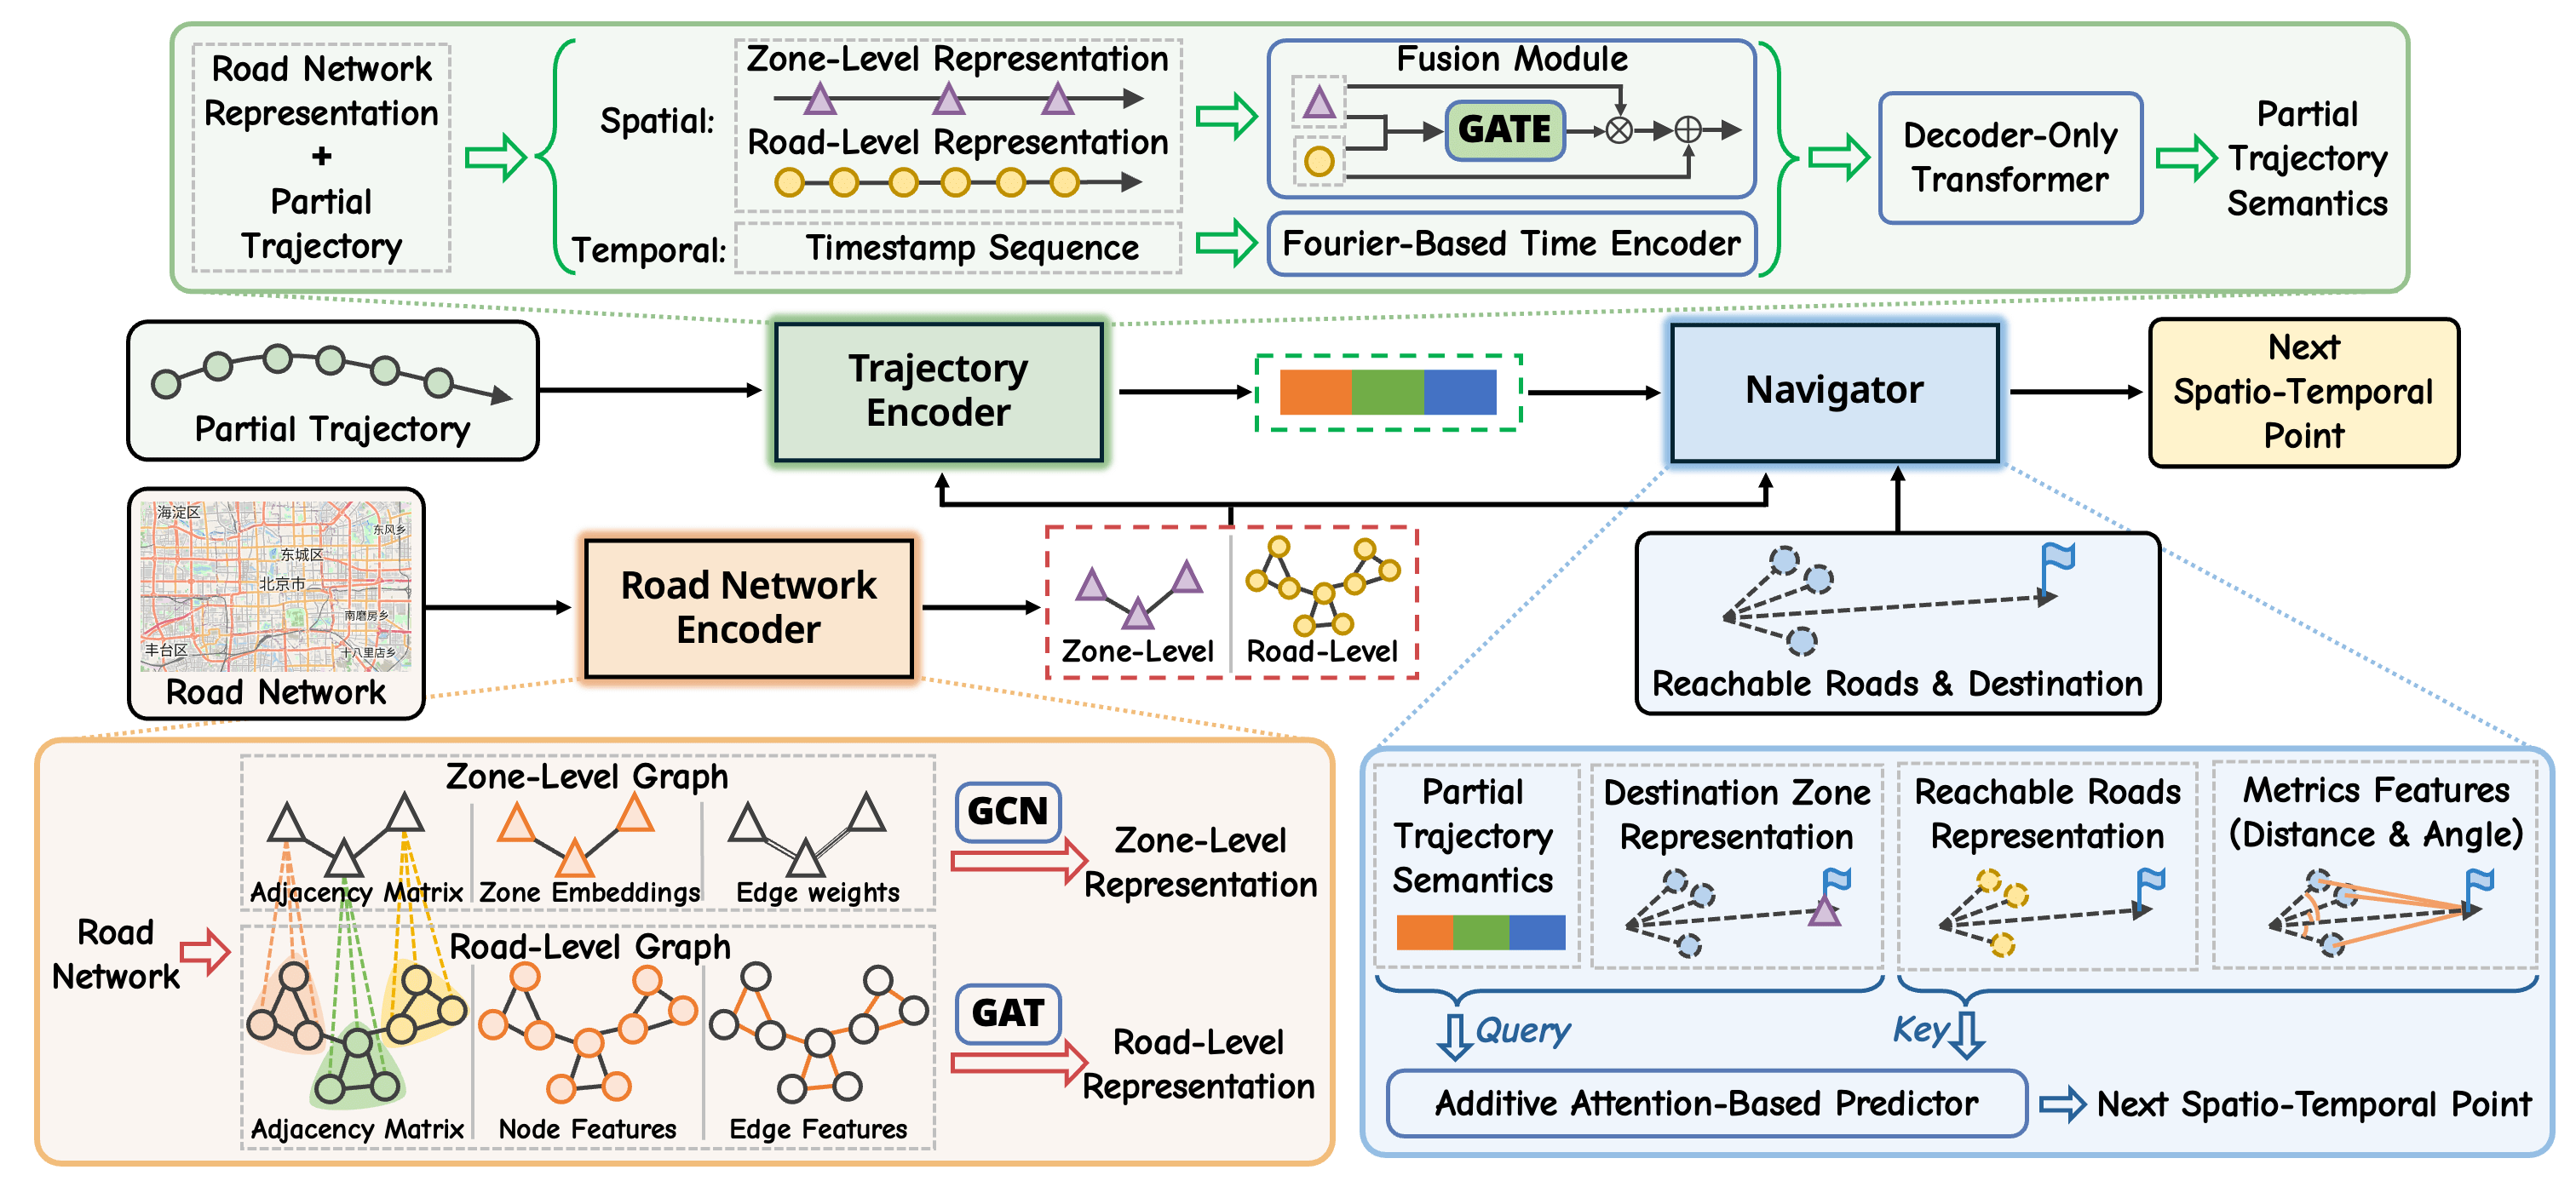
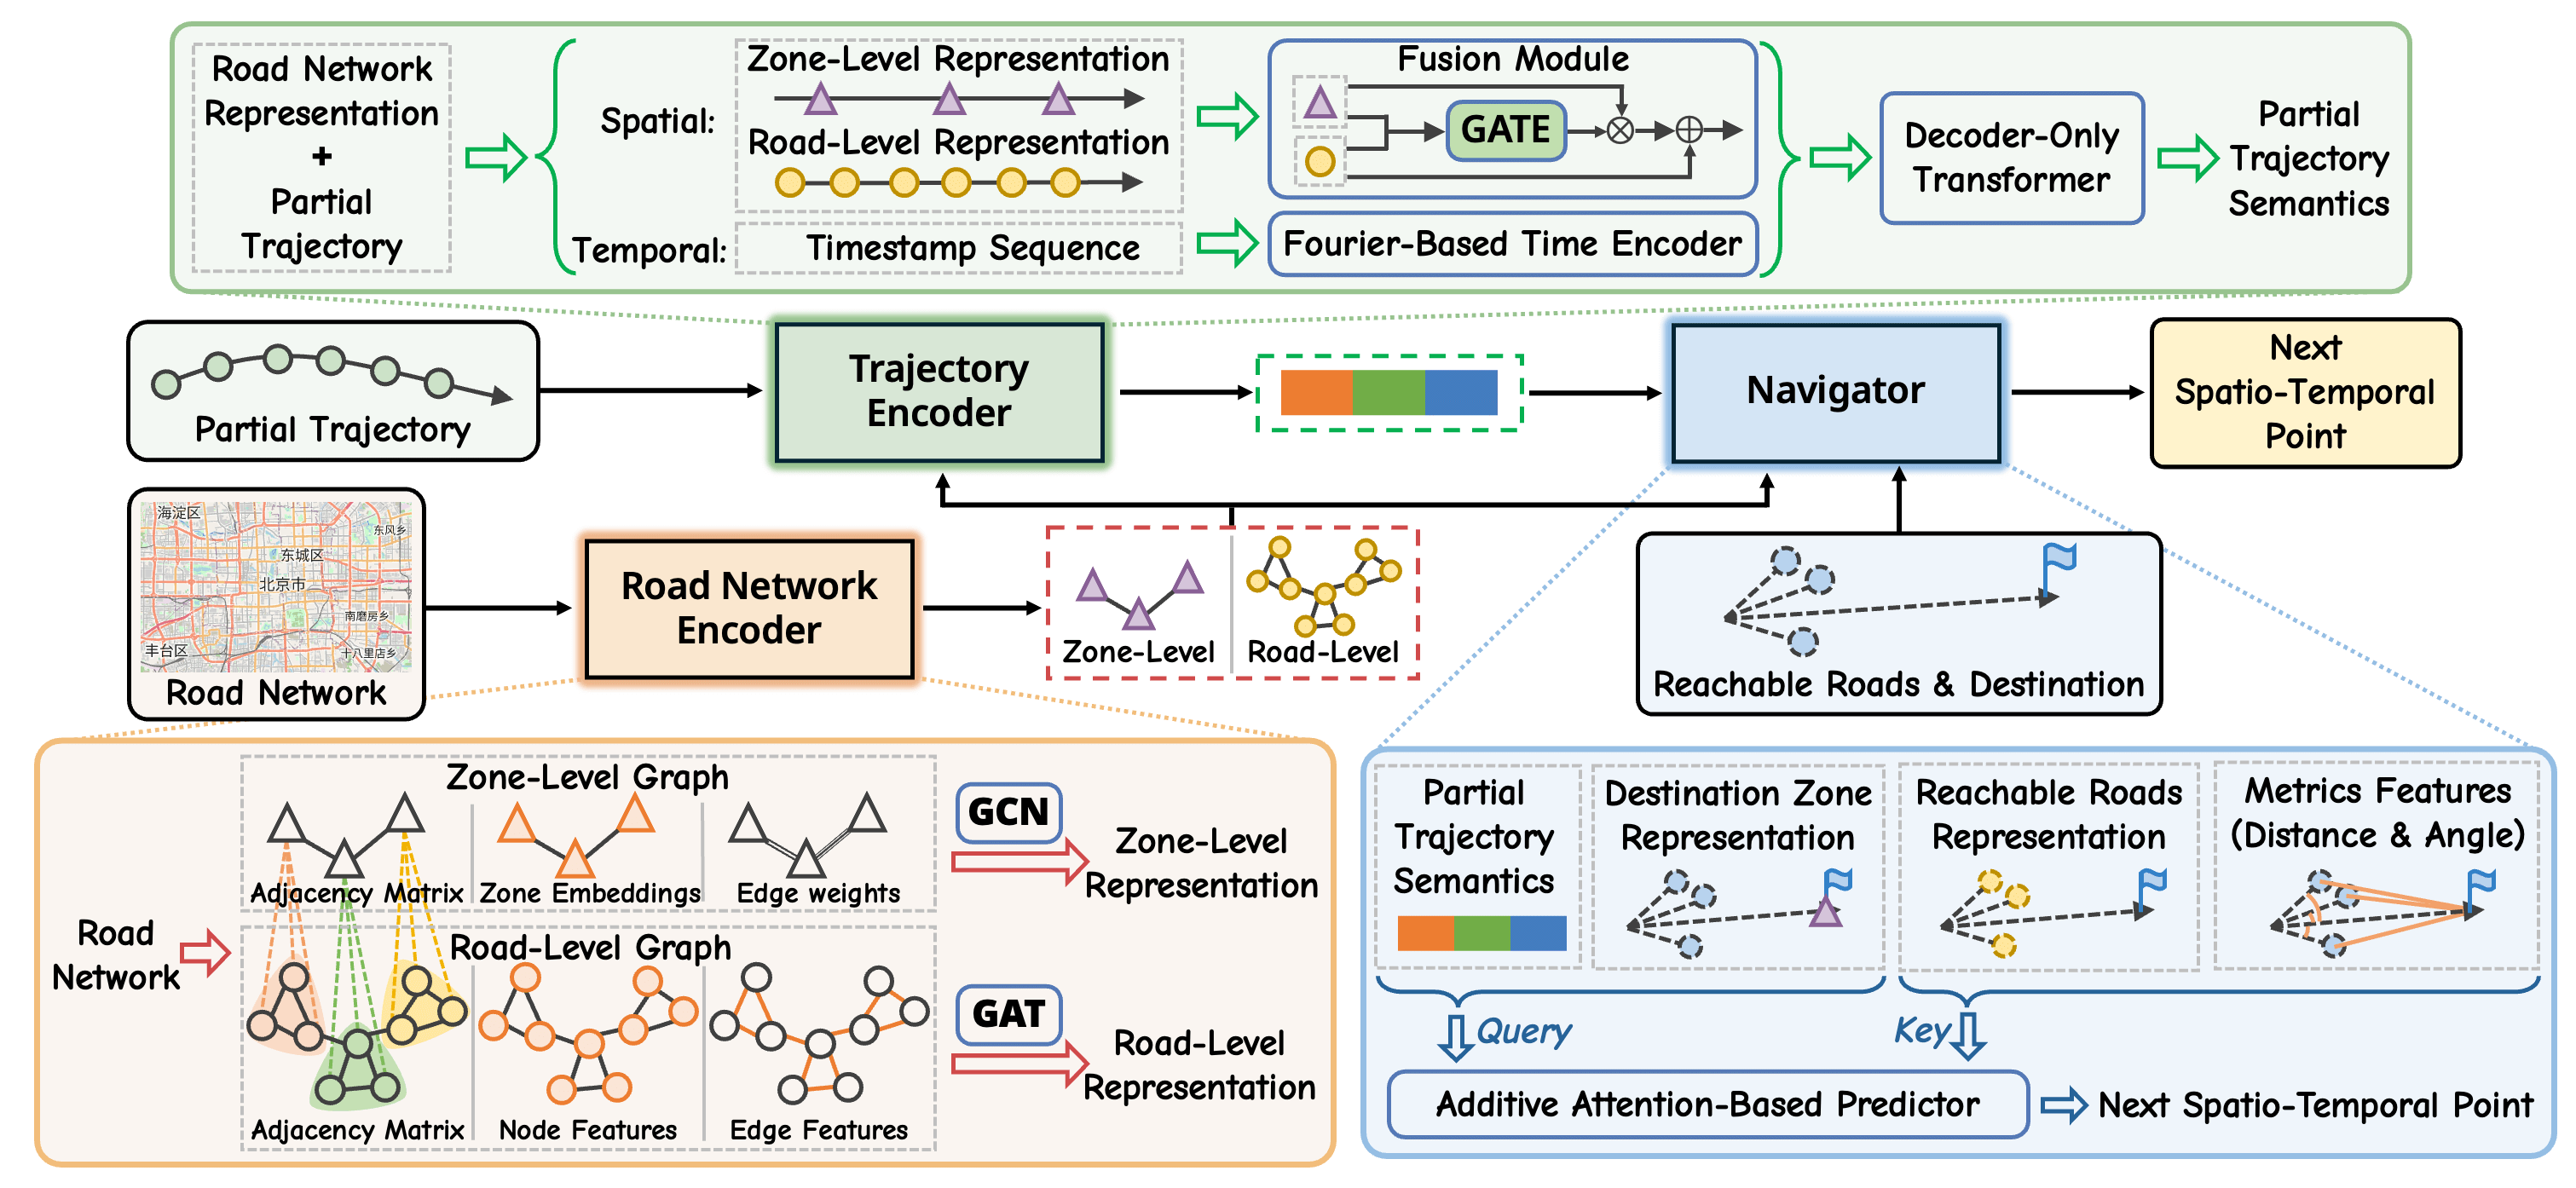
Update

diff --git a/src/index.html b/src/index.html
@@ -9,54 +9,52 @@
     <script type="module" src="./js/main.js"></script>
   </head>
   <body>
-    <section>
-      <div class="p-5 mb-4" style="background-color: #f5f5f7;">
-        <div class="container">
-          <div class="row">
-            <div class="col-12 text-center">
-              <h1 class="fs-4">Holistic Semantic Representation for Navigational Trajectory Generation</h1>
-              <p class="fs-5 text-muted">AAAI 2025</p>
-              <hr>
-              <p>
-                Ji Cao<sup>1</sup>,
-                Tongya Zheng<sup>2,3,*</sup>,
-                Qinghong Guo<sup>1</sup>,
-                Yu Wang<sup>1</sup>,
-                Junshu Dai<sup>1</sup>,
-                <br>
-                Shunyu Liu<sup>4</sup>,
-                Jie Yang<sup>1</sup>,
-                Jie Song<sup>1</sup>,
-                Mingli Song<sup>3,5</sup>
-              </p>
-              <p>
-                <sup>1</sup>Zhejiang University
-                <br>
-                <sup>2</sup>Big Graph Center, Hangzhou City University
-                <br>
-                <sup>3</sup>State Key Laboratory of Blockchain and Data Security, Zhejiang University
-                <br>
-                <sup>4</sup>Nanyang Technological Univerisity
-                <br>
-                <sup>5</sup>Hangzhou High-Tech Zone (Binjiang) Institute of Blockchain and Data Security
-              </p>
-              <p>
-                <sup>*</sup> denotes the corresponding author
-              </p>
+    <section class="py-5 mb-5" style="background: linear-gradient(135deg, #f8f9fa 0%, #e9ecef 100%); border-bottom: 1px solid #dee2e6;">
+      <div class="container">
+        <div class="row justify-content-center">
+          <div class="col-lg-10 text-center">
+            <h1 class="fs-4 fw-bold mb-3" style="color: #212529;">
+              Holistic Semantic Representation for<br class="d-none d-md-block"> Navigational Trajectory Generation
+            </h1>
+            <p class="fs-5 fw-medium mb-4" style="color: #c9302c;">AAAI 2025</p>
+            
+            <div class="authors mb-4 text-muted" style="font-size: 0.95rem; line-height: 1.8;">
+              <span class="d-inline-block px-2">Ji Cao<sup class="ms-1 text-muted">1</sup></span>
+              <span class="d-inline-block px-2">Tongya Zheng<sup class="ms-1 text-muted">2,3,*</sup></span>
+              <span class="d-inline-block px-2">Qinghong Guo<sup class="ms-1 text-muted">1</sup></span>
+              <span class="d-inline-block px-2">Yu Wang<sup class="ms-1 text-muted">1</sup></span>
+              <span class="d-inline-block px-2">Junshu Dai<sup class="ms-1 text-muted">1</sup></span>
+              <br class="d-none d-lg-block">
+              <span class="d-inline-block px-2">Shunyu Liu<sup class="ms-1 text-muted">4</sup></span>
+              <span class="d-inline-block px-2">Jie Yang<sup class="ms-1 text-muted">1</sup></span>
+              <span class="d-inline-block px-2">Jie Song<sup class="ms-1 text-muted">1</sup></span>
+              <span class="d-inline-block px-2">Mingli Song<sup class="ms-1 text-muted">3,5</sup></span>
             </div>
-          </div>
-          <div class="row">
-            <div class="col-12 text-center">
-              <a href="https://ojs.aaai.org/index.php/AAAI/article/view/31978" class="btn btn-dark me-4" target="_blank">
-                <i class="bi bi-file-earmark-pdf"></i> Paper
+
+            <div class="affiliations mb-3 text-muted" style="font-size: 0.95rem; line-height: 1.6;">
+              <span class="d-block"><sup class="me-1">1</sup>Zhejiang University</span>
+              <span class="d-block"><sup class="me-1">2</sup>Big Graph Center, Hangzhou City University</span>
+              <span class="d-block"><sup class="me-1">3</sup>State Key Laboratory of Blockchain and Data Security, Zhejiang University</span>
+              <span class="d-block"><sup class="me-1">4</sup>Nanyang Technological University</span>
+              <span class="d-block"><sup class="me-1">5</sup>Hangzhou High-Tech Zone (Binjiang) Institute of Blockchain and Data Security</span>
+            </div>
+
+            <div class="corresp-author mb-4 text-muted small">
+              <sup>*</sup> denotes the corresponding author
+            </div>
+
+            <div class="d-flex justify-content-center gap-3 flex-wrap mt-4">
+              <a href="https://ojs.aaai.org/index.php/AAAI/article/view/31978" class="btn btn-dark rounded-pill px-4 shadow-sm" target="_blank">
+                <i class="bi bi-file-earmark-pdf me-1"></i> Paper
               </a>
-              <a href="https://arxiv.org/abs/2501.02737" class="btn btn-dark me-4" target="_blank">
-                <i class="bi bi-file-earmark-pdf"></i> arXiv
+              <a href="https://arxiv.org/abs/2501.02737" class="btn btn-dark rounded-pill px-4 shadow-sm" target="_blank">
+                <i class="bi bi-file-earmark-pdf me-1"></i> arXiv
               </a>
-              <a href="https://github.com/caoji2001/HOSER" class="btn btn-dark" target="_blank">
-                <i class="bi bi-github"></i> Code
+              <a href="https://github.com/caoji2001/HOSER" class="btn btn-dark rounded-pill px-4 shadow-sm" target="_blank">
+                <i class="bi bi-github me-1"></i> Code
               </a>
             </div>
+            
           </div>
         </div>
       </div>